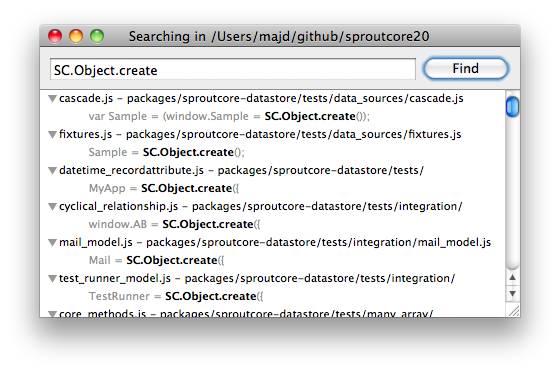
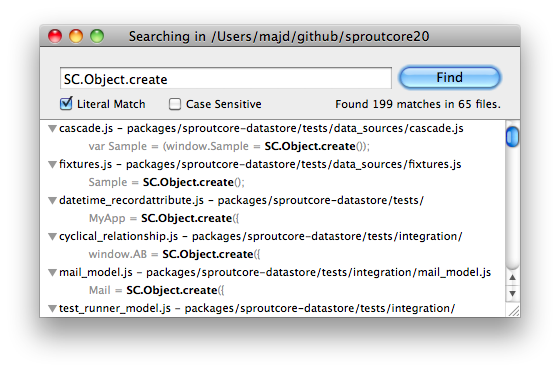
prepare for 0.3 release

Changed region(s): [[0.0607, 0.1478, 0.9411, 0.8575]]

diff --git a/README.md b/README.md
@@ -1,5 +1,5 @@
 
-# Waldo (Current Version: 0.2)
+# Waldo (Current Version: 0.3)
 
 Waldo is a port of TextMate's Find-in-Project feature, designed to work with [MacVim.app](https://github.com/b4winckler/macvim)
 
@@ -13,9 +13,17 @@ Waldo is a port of TextMate's Find-in-Project feature, designed to work with [Ma
 - Launch Waldo.app to install the Vim plugin
 - Open MacVim.app and trigger Waldo using the `<leader>f` mapping
 	
-*NOTE:* Make sure you `cd` into your project folder. If you don't, 
+*NOTE:* If you do not have your `.vim/` folder in your home directory, you must manually place Waldo.vim (found inside the .app package) in your `.vim/plugins` directory.
+	
+*NOTE:* Make sure you `cd` into your project folder. If you don't, then the window won't start-up and you won't get any feedback. I am trying to get that fixed for 0.4
 
 ## Changelog
+
+### Version 0.3
+- Auto-install vim plugin on first launch (thanks zef)
+- Add support for case-sensitive searches (thanks zef)
+- Add support for regex searches (thanks zef)
+- Launch Waldo as a menu item (thanks ashchan)
 
 ### Version 0.2
 - Perform ack subprocess on a separate thread
@@ -24,15 +32,9 @@ Waldo is a port of TextMate's Find-in-Project feature, designed to work with [Ma
 
 ## Roadmap
 
-### Version 0.3
+### Version 0.4
 - Ability to specify project root in Waldo.app
 - Add safe-guards against generic project roots (~, /, etc.)
-- Auto-install vim plugin on first launch (thanks zef)
-- Add support for case-sensitive searches (thanks zef)
-- Add support for regex searches (thanks zef)
-- Launch Waldo as a menu item (thanks ashchan)
-
-### Version 0.4
 - Keyboard navigation
 - Launch as menu item (not dock app)
 
@@ -47,7 +49,6 @@ I highly encourage you to fork my project and implement any of the features in t
 ### Contributors
 - [Zef Houssney](http://madebykiwi.com)
 - [James Chen](http://ashchan.com)
-
 
 ## License
 
